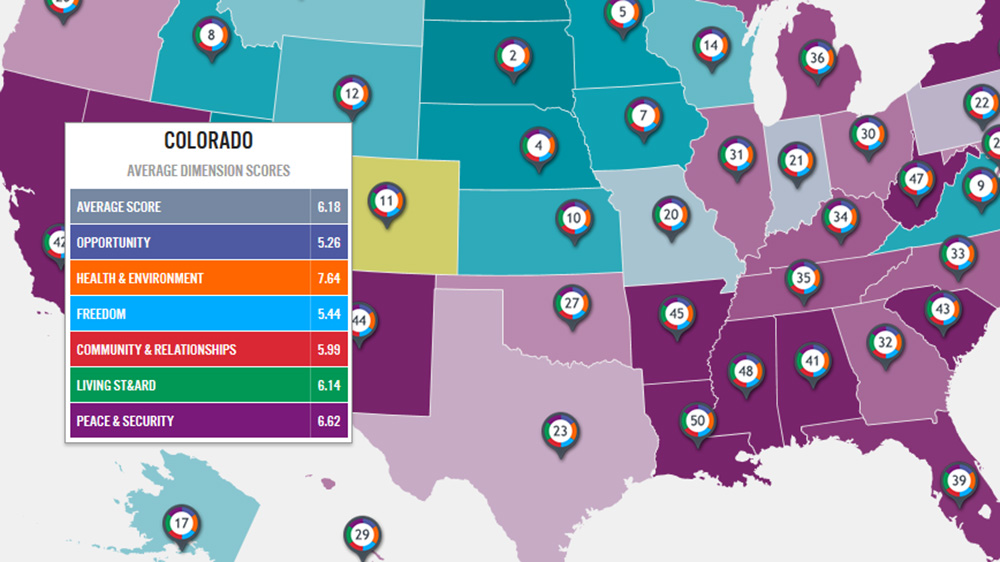
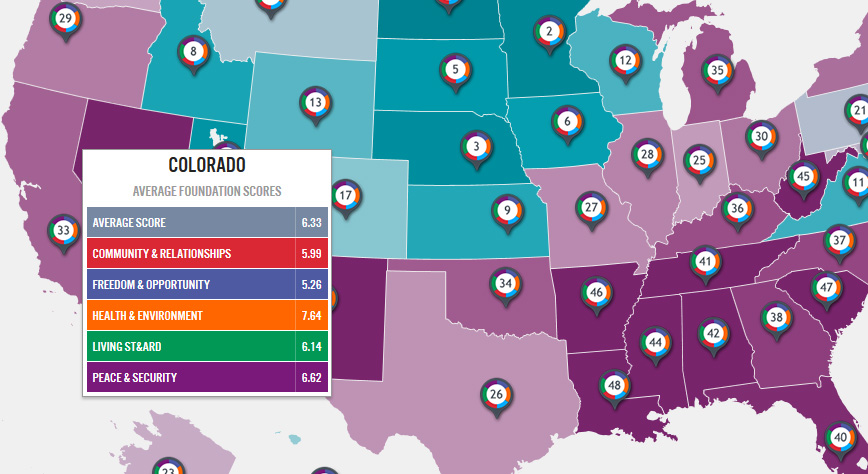
update

diff --git a/wp-content/themes/life-measures/css/app/interactive-map.css b/wp-content/themes/life-measures/css/app/interactive-map.css
@@ -896,32 +896,65 @@ body#interactive-map .dim.average_score,.dimension.average_score {
     background-color: #7688A2;
 }
 
-/**
- *Opportunity 
+/** 
+ *Community and Relationships 
  */
-body#interactive-map .dim.poverty,.dimension.poverty {
-    background-color: rgb(86, 99, 178);;
+body#interactive-map .dim.community_life,.dimension.community_life {
+    background-color: rgb(240, 44, 57);
 }
 
-body#interactive-map .dim.employment,.dimension.employment {
-    background-color: rgb(94, 108, 194);
+body#interactive-map .dim.family_life,.dimension.family_life {
+    background-color: rgb(255, 48, 62);
 }
 
-body#interactive-map .dim.community_vitality,.dimension.community_vitality {
-    background-color: rgb(101, 117, 211);
+/**
+ *Freedom and Opportunity 
+ */
+body#interactive-map .dim.personal_freedom,.dimension.personal_freedom, .dimension.political_freedom {
+    background-color: #5663B2;
 }
 
-body#interactive-map .dim.education,.dimension.education {
-    background-color: rgb(109, 126, 227);
+body#interactive-map .dim.civil_liberties,.dimension.civil_liberties {
+    background-color: #5E6CC2;
 }
 
-body#interactive-map .dim.community_basics,.dimension.community_basics {
-    background-color: rgb(101, 117, 211);
+body#interactive-map .dim.religious_freedom,.dimension.religious_freedom {
+    background-color: #6575D3;
+}
+
+body#interactive-map .dim.economic_freedom,.dimension.economic_freedom {
+    background-color: #6D7EE3;
+}
+
+body#interactive-map .dim.perceived_opportunities,.dimension.perceived_opportunities {
+    background-color: #6d7eed;
 }
 
 body#interactive-map .dim.entrepreneurship,.dimension.entrepreneurship {
-    background-color: rgb(109, 126, 227);
+    background-color: #6d7ef1;
 }
+
+body#interactive-map .dim.employment,.dimension.employment {
+    background-color: #6d7ef6;
+}
+
+body#interactive-map .dim.personal_freedom,.dimension.personal_freedom {
+    background-color: #5663B2;
+}
+
+body#interactive-map .dim.work,.dimension.work {
+    background-color: #6575D3;
+}
+
+body#interactive-map .dim.local_opportunity,.dimension.local_opportunity {
+    background-color: #6D7EE3;
+}
+
+body#interactive-map .dim.education,.dimension.education {
+    background-color: #6d7eed;
+}
+
+
 
 /**
  *Health and Environment 
@@ -939,75 +972,29 @@ body#interactive-map .dim.environmental_health,.dimension.environmental_health {
 }
 
 /** 
- *Freedom 
- */
-body#interactive-map .dim.personal_freedom,.dimension.personal_freedom {
-    background-color: rgb(0, 189, 255);
-}
-
-body#interactive-map .dim.economic_freedom,.dimension.economic_freedom {
-    background-color: rgb(0, 189, 255);
-}
-
-body#interactive-map .dim.political_freedom,.dimension.political_freedom {
-    background-color: rgb(0, 189, 255);;
-}
-
-body#interactive-map .dim.civil_liberties,.dimension.civil_liberties {
-    background-color: rgb(0, 206, 255);
-}
-
-body#interactive-map .dim.religious_freedom,.dimension.religious_freedom {
-    background-color: rgb(0, 224, 255);
-}
-
-body#interactive-map .dim.economic_freedom,.dimension.economic_freedom {
-    background-color: rgb(0, 241, 255);
-}
-
-body#interactive-map .dim.perceived_freedom,.dimension.perceived_freedom {
-    background-color: rgb(0, 255, 255);
-}
-
-/** 
- *Community and Relationships 
- */
-body#interactive-map .dim.community_life,.dimension.community_life {
-    background-color: rgb(240, 44, 57);
-}
-
-body#interactive-map .dim.family_life,.dimension.family_life {
-    background-color: rgb(255, 48, 62);
-}
-
-/** 
  *Living Standard 
  */
-body#interactive-map .dim.current_living_standard,.dimension.current_living_standard {
-    background-color: rgb(0, 167, 94);
+body#interactive-map .dim.income,.dimension.income {
+    background-color: #00A75E;
 }
 
-body#interactive-map .dim.improvement_in_living_standard,.dimension.improvement_in_living_standard {
-    background-color: rgb(0, 182, 102);
+body#interactive-map .dim.poverty,.dimension.poverty {
+    background-color: #00B666;
+}
+
+body#interactive-map .dim.resources,.dimension.resources, .dimension.living_standard_perceptions{
+    background-color: #00b66c;
 }
 
 /** 
  *Peace and Security 
  */
-body#interactive-map .dim.violent_crime_rate,.dimension.violent_crime_rate {
-    background-color: rgb(134, 28, 134);
+body#interactive-map .dim.crime,.dimension.crime {
+    background-color: #861C86;
 }
 
-body#interactive-map .dim.property_crime_rate,.dimension.property_crime_rate {
-    background-color: rgb(146, 30, 146);
-}
-
-body#interactive-map .dim.perceived_local_safety,.dimension.perceived_local_safety {
-    background-color: rgb(159, 33, 159);
-}
-
-body#interactive-map .dim.trust,.dimension.trust {
-    background-color: rgb(171, 35, 171);
+body#interactive-map .dim.peace_and_security_perceptions,.dimension.peace_and_security_perceptions {
+    background-color: #921E92;
 }
 
 body#interactive-map .dim.violence_and_ethnic_warfare,.dimension.violence_and_ethnic_warfare {

diff --git a/wp-content/themes/life-measures/page-interactive-map.php b/wp-content/themes/life-measures/page-interactive-map.php
@@ -408,7 +408,7 @@ get_header(); ?>
 									</li>
 								</ul>
 							</li>
-							<li id="world_component_container_opportunity" class="world_opportunity">
+							<li id="world_component_container_freedom_and_opportunity" class="world_opportunity">
 								<div class="dimension freedom_and_opportunity active" id="world_opportunity">
 									<div class="dimension-title-container freedom_and_opportunity">
 										<img src="<?php echo get_template_directory_uri(); ?>/images/dimensions_symbol/white/Symbol-Opportunity.png" id="image-container">
